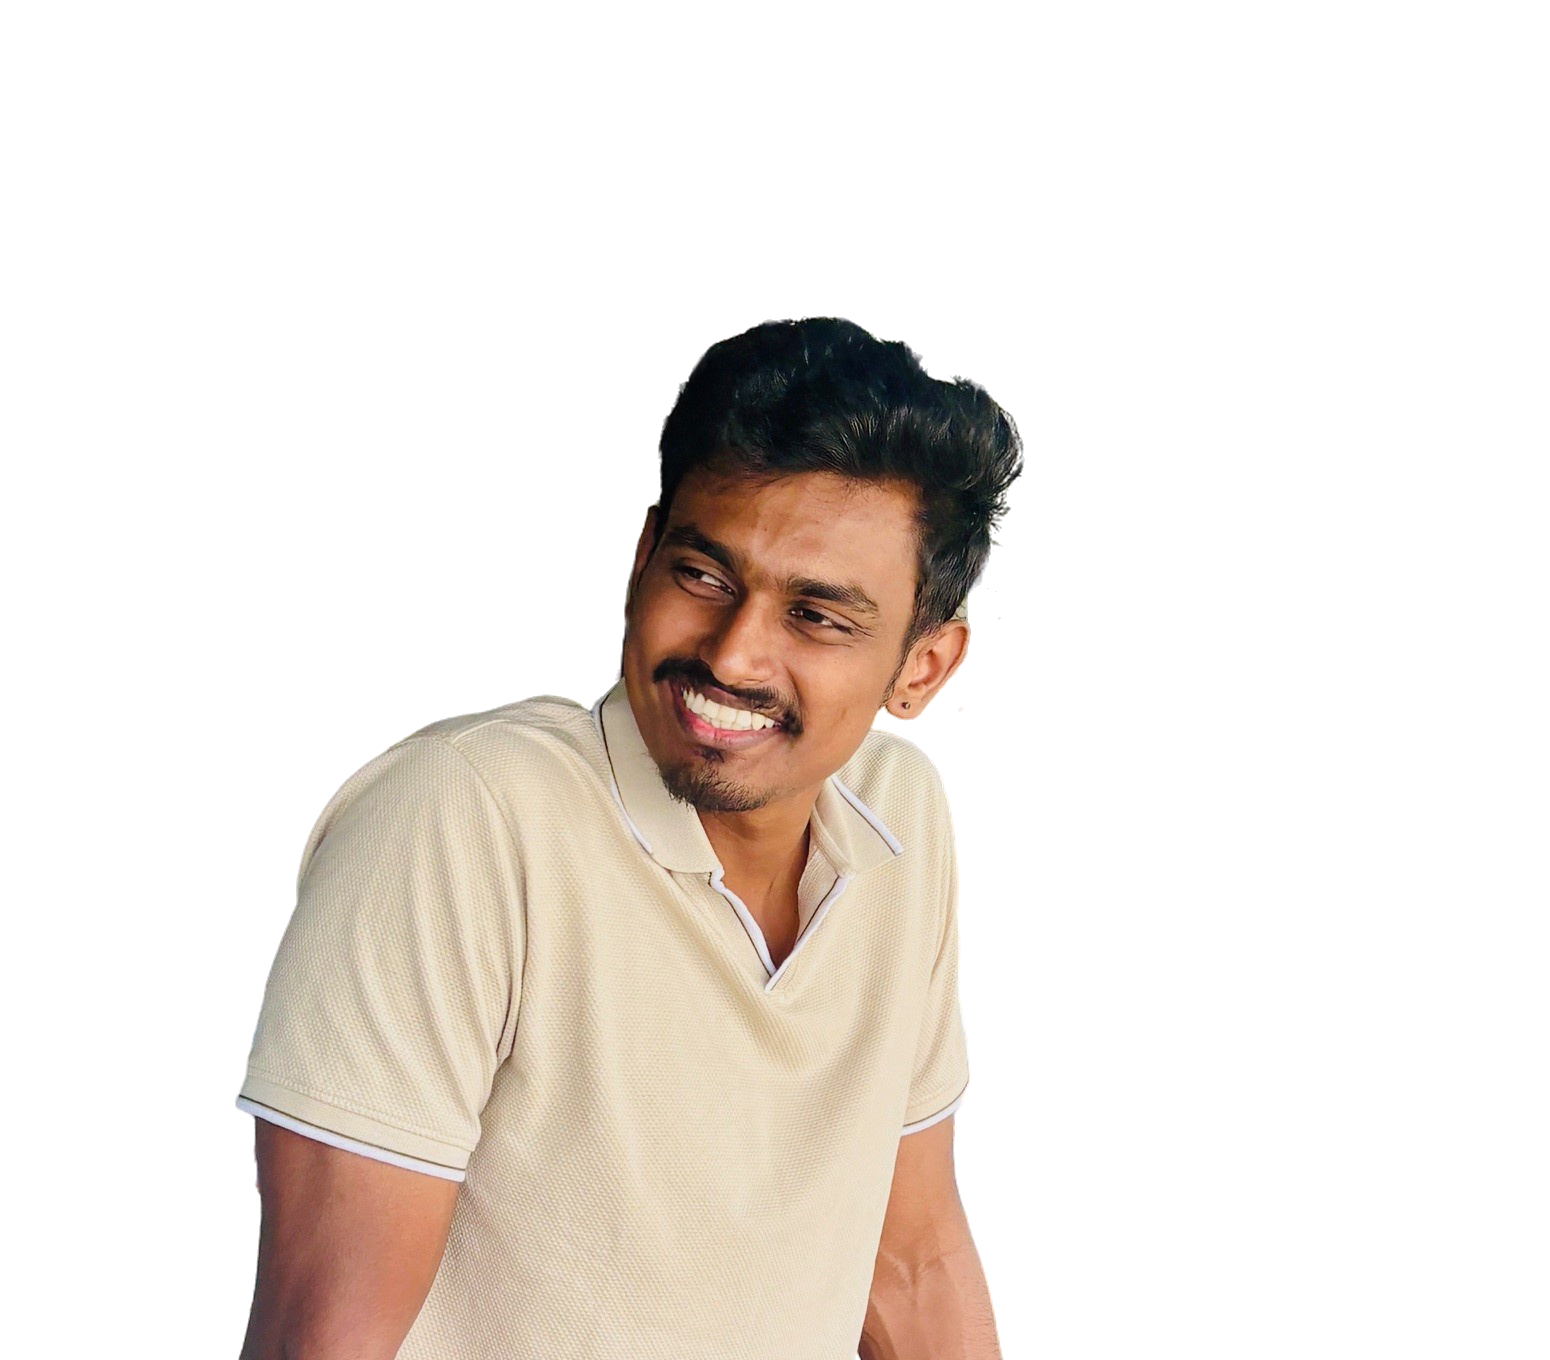
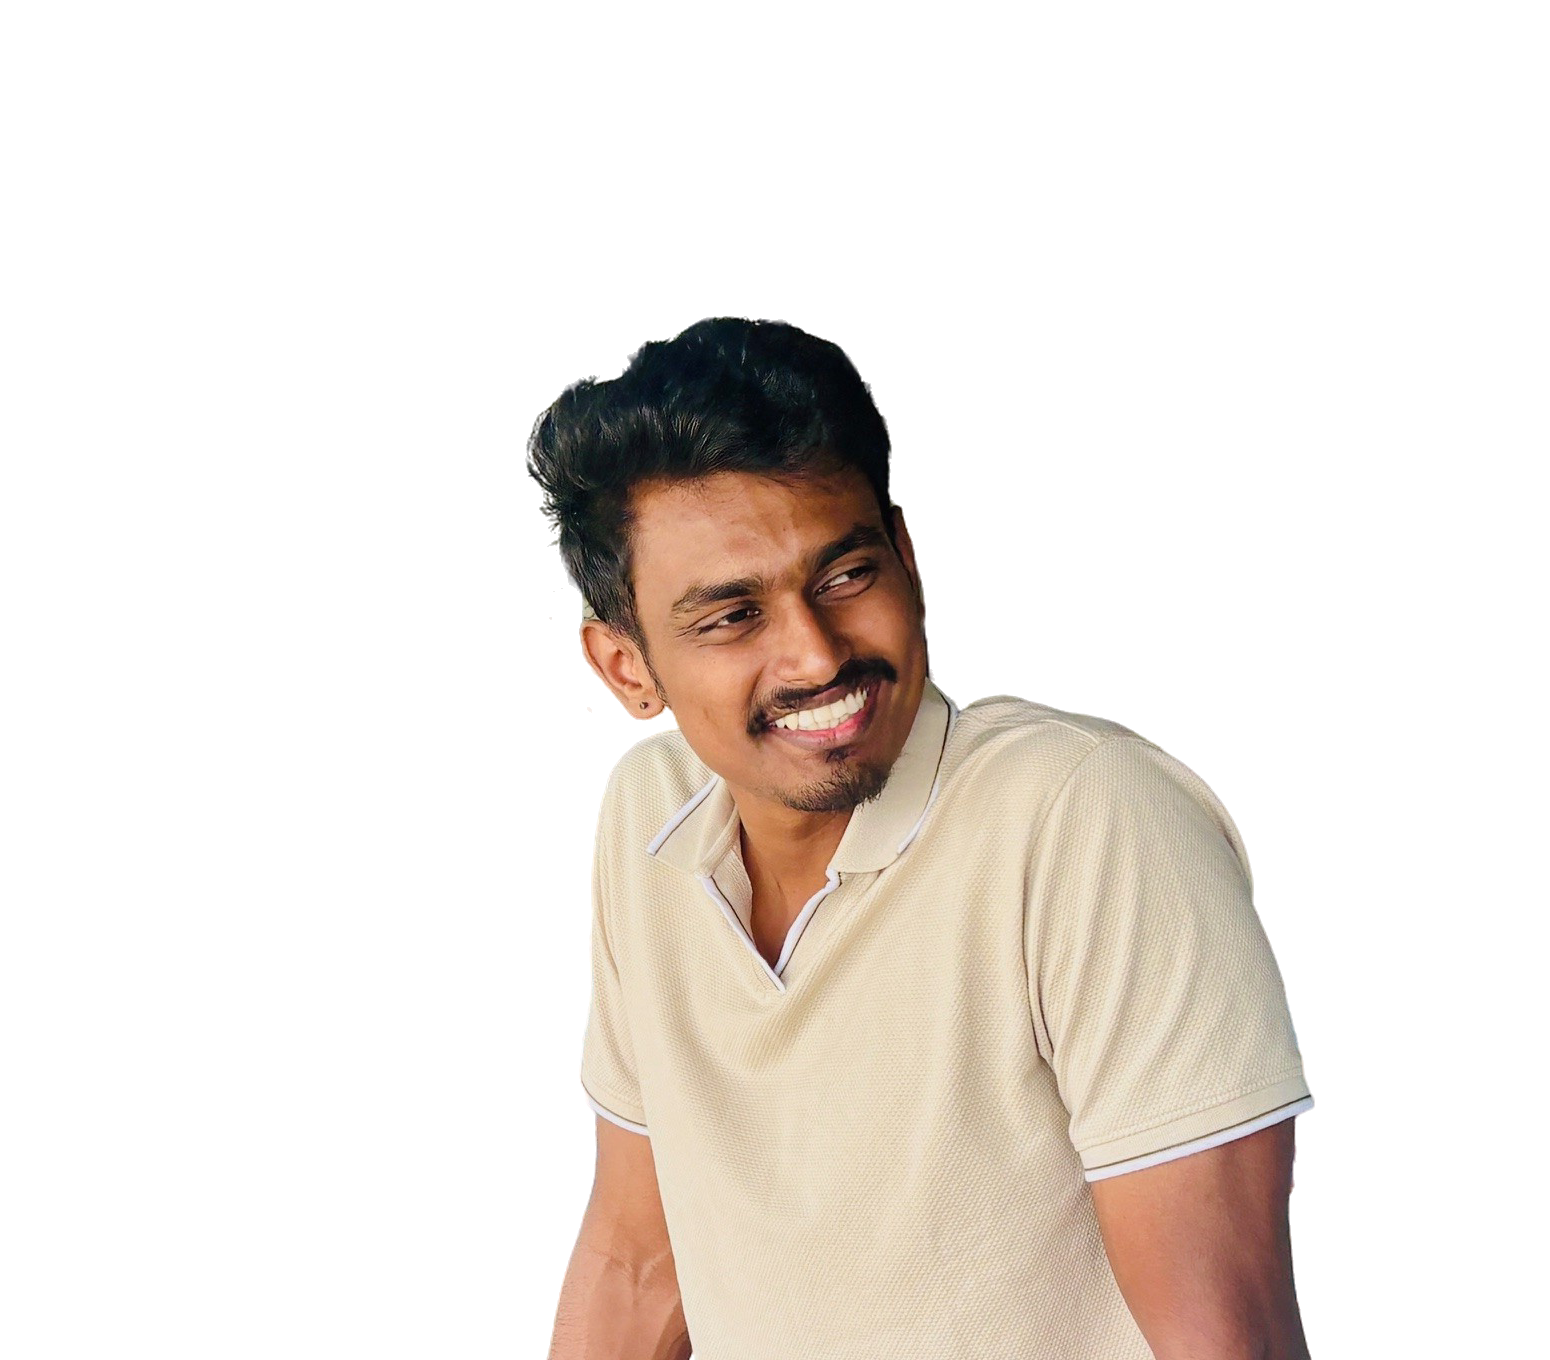
edits

diff --git a/portfolio.css b/portfolio.css
@@ -16,10 +16,9 @@ body{
 #header{
     width: 100%;
     height: 100vh;
-    background-image: url(./images/freepik__background__15061.png);
-    background-size: 85%;
-    background-position: 230% center;
-    background-repeat: no-repeat;
+    background-image: url(images/freepik__background__15061.png);
+    background-size: cover;
+    background-position: center;
 }
 .container{
     padding: 10px 10%;
@@ -382,9 +381,7 @@ nav ul .fa-circle-xmark{
 @media only screen and (max-width:600px){
     #header{
         background-image: url(images/freepik__background__15061.png);
-        background-size: 60%;
-        background-position: right top;
-        background-repeat: no-repeat;
+        
     }
 
     .header-text{
